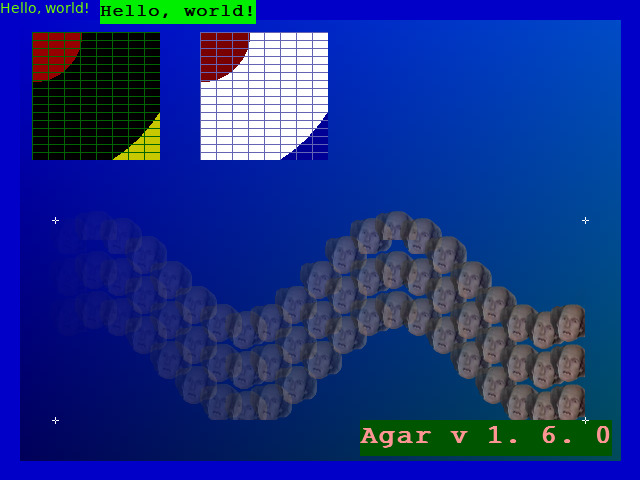
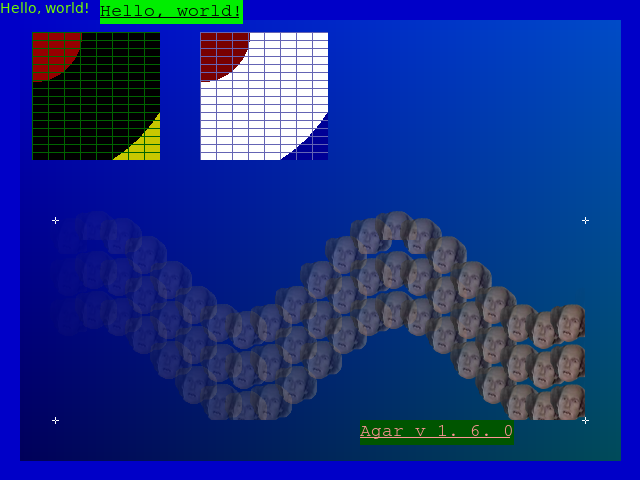
Remove unused field "borders". Fix the "high-color" in True Color mode.
git-svn-id: file:///home/dev/agar/trunk@10744 86a84d31-9702-0410-8f1e-a60cab7bd424

Changed region(s): [[0.5625, 0.875, 0.9688, 0.9688], [0.2812, 0.0, 0.4062, 0.0625], [0.1562, 0.0, 0.25, 0.0625]]

diff --git a/gui/widget.h b/gui/widget.h
@@ -279,28 +279,6 @@ typedef struct ag_widget {
 	Uint paddingTop, paddingRight;      /* Padding (px around contents) */
 	Uint paddingBottom, paddingLeft;
 	Uint spacingHoriz, spacingVert;     /* Spacing (px between items) */
-	Uint borders;
-#define AG_WIDGET_BORDER_NONE     0     /* No border style */
-#define AG_WIDGET_BORDER_WD_1     1     /* Solid 1-pixel */
-#define AG_WIDGET_BORDER_WD_2     2     /* Solid 2-pixel */
-#define AG_WIDGET_BORDER_WD_3     3     /* Solid 3-pixel */
-#define AG_WIDGET_BORDER_WD_4     4     /* Solid 4-pixel */
-#define AG_WIDGET_BORDER_WD_5     5     /* Solid 5-pixel */
-#define AG_WIDGET_BORDER_WD_6     6     /* Solid 6-pixel */
-#define AG_WIDGET_BORDER_WD_7     7     /* Solid 7-pixel */
-#define AG_WIDGET_BORDER_DASHED   8     /* Dashed #1 (--- --- ) */
-#define AG_WIDGET_BORDER_DASHED_2 9     /* Dashed #2 (-- -- --) */
-#define AG_WIDGET_BORDER_DOTTED   10    /* Dotted #1 (- - - - ) */
-#define AG_WIDGET_BORDER_DOTTED_2 11    /* Dotted #2 (-  -  - ) */
-
-#define AG_WIDGET_BORDER_STYLE_TOP    (0x0000000f) /* Style, top border */
-#define AG_WIDGET_BORDER_STYLE_BOTTOM (0x00000f00) /* Style, bottom border */
-#define AG_WIDGET_BORDER_STYLE_LEFT   (0x000f0000) /* Style, left border */
-#define AG_WIDGET_BORDER_STYLE_RIGHT  (0x0f000000) /* Style, right border */
-#define AG_WIDGET_BORDER_RADIUS_TL    (0x000000f0) /* Radius, top left corner */
-#define AG_WIDGET_BORDER_RADIUS_BL    (0x0000f000) /* Radius, bottom left corner */
-#define AG_WIDGET_BORDER_RADIUS_BR    (0x00f00000) /* Radius, bottom right corner */
-#define AG_WIDGET_BORDER_RADIUS_TR    (0xf0000000) /* Radius, top right corner */
 
 	struct ag_font *_Nullable font;    /* Active font (style-generated) */
 	AG_WidgetPalette pal;              /* Color palette (style-generated) */

diff --git a/gui/widget.c b/gui/widget.c
@@ -24,7 +24,7 @@
  */
 
 /*
- * AG_Widget: The base class of all Agar widgets.
+ * The base class for Agar widgets.
  */
 
 #include <agar/core/core.h>
@@ -68,7 +68,6 @@ const char *agStyleAttributes[] = {
 	 * Box Model
 	 */
 	"margin",           /* Margin (between border & outer bounding box) */
-	"border",           /* Border (px between padding & margin) */
 	"padding",          /* Padding (px between content & border) */
 	/*
 	 * Containers
@@ -94,7 +93,7 @@ AG_WidgetPalette agDefaultPalette = {{
 	{  0,  0,  0,  0},          /*  background-color */
 	{240,240,240,255},          /*        text-color */
 	{ 50, 50, 50,255},          /*        line-color */
-	{ 90, 90, 90,255},          /*        high-color */
+	{144,144,144,255},          /*        high-color */
 	{ 80, 80, 80,255},          /*         low-color */
 	{  0,  0, 80,255},          /*   selection-color */
 	{  0,  0,  0,  0}
@@ -483,8 +482,7 @@ Init(void *_Nonnull obj)
 	                           sizeof(enum ag_widget_state) + /* state */
 	                           sizeof(Uint8)*4 +              /* margin */
 	                           sizeof(Uint)*4 +               /* padding */
-	                           sizeof(Uint)*2 +               /* spacing */
-	                           sizeof(Uint));                 /* borders */
+	                           sizeof(Uint)*2);               /* spacing */
 
 	wid->font = agDefaultFont;
 	wid->pal = agDefaultPalette;
